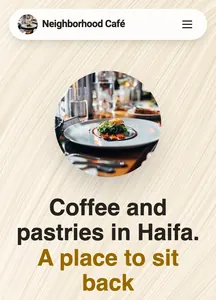
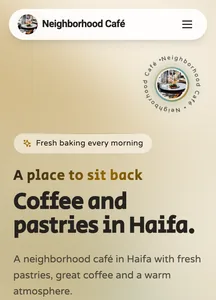
LT-605 (DASH): the editor offers the live-colours hero, the 3D button, the wall and the two product pages
- names (he/en): hero 'mesh' צבעים חיים, button 'splash' תלת ממד, products 'wall'
  קיר מדפים (its own name there: sectionLabel), product pages 'stand' על מדף לבן and
  'stage' במה מרחפת; mesh draws its own backdrop (no background chips)
- paid: hero mesh and product page stage (crown, held on the free plan, PaidNote),
  the product page panel now holds paid designs as the section panel does
- the 3D button's sample in the design tab; pictures for the five new looks (he/en,
  loops for mesh and stage); festive's style card redrawn with its new hero
- design-pictures: product pages can move, a design can act during its loop (the
  stage takes a colour), a slow field is filmed as a time-lapse

diff --git a/src/utils/editorOptions.ts b/src/utils/editorOptions.ts
@@ -15,6 +15,16 @@ export const optionLabel = (names: Named, value: string, lang: string): string =
   return lang === 'he' ? entry.he : entry.en;
 };
 
+/**
+ * LT-605: a look whose value another section already names differently ('wall'
+ * is the highlights' typographic wall and the products' wall of shelves).
+ */
+const OWN_NAMES: Record<string, Named> = {
+  products: { wall: { he: 'קיר מדפים', en: 'Wall of shelves' } },
+};
+export const sectionLabel = (section: string, value: string, lang: string): string =>
+  optionLabel(OWN_NAMES[section]?.[value] ? OWN_NAMES[section] : LAYOUTS, value, lang);
+
 export const PRESETS: Named = {
   luxe: { he: 'יוקרתי', en: 'Luxe' },
   editorial: { he: 'מגזיני', en: 'Editorial' },
@@ -53,9 +63,12 @@ export const PRODUCT_PAGE_LAYOUTS: Named = {
   hero: { he: 'תמונה גדולה מעל', en: 'Large picture above' },
   gallery: { he: 'גלריה ופרטים צמודים', en: 'Gallery, details in view' },
   detail: { he: 'דף חנות', en: 'Shop page' },
+  // LT-605
+  stand: { he: 'על מדף לבן', en: 'On a white ledge' },
+  stage: { he: 'במה מרחפת', en: 'Floating stage' },
 };
 /** The products page's own layouts: the still ones (the moving ones suit a handful); LT-588 by category. */
-export const PRODUCTS_PAGE_LAYOUTS = ['well', 'swap', 'bento', 'list', 'rows', 'shelves', 'shop'];
+export const PRODUCTS_PAGE_LAYOUTS = ['well', 'swap', 'bento', 'list', 'rows', 'shelves', 'shop', 'wall'];
 /** The layouts that draw a card per product (the owner's card). */
 export const CARD_LAYOUTS = ['well', 'swap', 'shop'];
 
@@ -80,6 +93,8 @@ export const BUTTON_STYLES: Named = {
   gradient: { he: 'מעבר צבע', en: 'Gradient' },
   outline: { he: 'מסגרת', en: 'Outline' },
   ghost: { he: 'שקוף', en: 'Ghost' },
+  // LT-605: festive's raised button whose letters roll and whose lines splash out.
+  splash: { he: 'תלת ממד', en: '3D splash' },
 };
 
 export const RADII: Named = {
@@ -113,7 +128,7 @@ export const HERO_BACKGROUNDS = ['fog', 'clouds', 'clouds2', 'topology', 'trunk'
 /** LT-531: these two are `design.decor`, which the site draws in place of `bgType`. */
 export const DECOR_BACKGROUNDS: readonly string[] = ['sonar', 'metal'];
 /** LT-531: the heroes that draw their own backdrop; a background chip would do nothing there. */
-export const OWN_BACKDROP_HEROES: readonly string[] = ['parallax', 'expand', 'aero', 'collage', 'slant'];
+export const OWN_BACKDROP_HEROES: readonly string[] = ['parallax', 'expand', 'aero', 'collage', 'slant', 'mesh'];
 
 /**
  * LT-570 (Erel 2026-11-03/04): the paid designs, by the section they lay out
@@ -123,7 +138,8 @@ export const OWN_BACKDROP_HEROES: readonly string[] = ['parallax', 'expand', 'ae
  * LT-583: the products' orbit (it turns by itself) joins them.
  */
 export const PAID_LAYOUTS: Readonly<Record<string, readonly string[]>> = {
-  hero: ['parallax', 'expand'],
+  // LT-605: the hero over a live field of colours.
+  hero: ['parallax', 'expand', 'mesh'],
   gallery: ['clothesline', 'cascade', 'curve'],
   portfolio: ['clothesline', 'cascade', 'curve'],
   products: ['belt', 'hanger', 'coverflow', 'orbit'],
@@ -131,9 +147,11 @@ export const PAID_LAYOUTS: Readonly<Record<string, readonly string[]>> = {
   features: ['stack'],
   // LT-591: the contact section with floating bubbles.
   contact: ['bubbles'],
+  // LT-605: the product page whose product floats by itself.
+  productPage: ['stage'],
 };
 export const PAID_BACKGROUNDS: readonly string[] = ['sonar', 'metal'];
-export const FREE_DEFAULTS: Readonly<Record<string, string>> = { hero: 'fullbleed', gallery: 'masonry', portfolio: 'masonry', products: 'well', features: 'tiles', contact: 'split' };
+export const FREE_DEFAULTS: Readonly<Record<string, string>> = { hero: 'fullbleed', gallery: 'masonry', portfolio: 'masonry', products: 'well', features: 'tiles', contact: 'split', productPage: 'side' };
 export const isPaidDesign = (section: string, value: unknown): boolean =>
   typeof value === 'string' && (PAID_LAYOUTS[section] ?? []).includes(value);
 
@@ -242,6 +260,8 @@ export const LAYOUTS: Named = {
   index: { he: 'אינדקס', en: 'Index' },
   // booking band and statement
   slant: { he: 'אלכסון', en: 'Slanted' },
+  // LT-605: the hero over a live field of the site's colours.
+  mesh: { he: 'צבעים חיים', en: 'Living colours' },
   quiet: { he: 'שקט', en: 'Quiet' },
   ticket: { he: 'כרטיס', en: 'Ticket' },
   display: { he: 'ענק', en: 'Display' },
@@ -269,7 +289,7 @@ export interface SectionDef {
   outsideBlocks?: boolean;
 }
 
-const HERO_LAYOUTS = ['image-right', 'centered', 'split', 'text-first', 'poster-split', 'poster-statement', 'fullbleed', 'parallax', 'expand', 'aero', 'collage', 'slant'];
+const HERO_LAYOUTS = ['image-right', 'centered', 'split', 'text-first', 'poster-split', 'poster-statement', 'fullbleed', 'parallax', 'expand', 'aero', 'collage', 'slant', 'mesh'];
 const GALLERY_LAYOUTS = ['grid', 'masonry', 'filmstrip', 'polaroid', 'flash', 'bento', 'scroller', 'spotlight', 'carousel', 'clothesline', 'curve', 'cascade'];
 const QUOTE_LAYOUTS = ['cards', 'quote', 'bubbles', 'marquee', 'spotlight', 'editorial'];
 const FAQ_STYLES = ['cards', 'lines', 'numbered', 'pills', 'split'];
@@ -295,7 +315,7 @@ export const SECTIONS: Record<string, SectionDef> = {
   visit: { label: { he: 'פרטי ביקור', en: 'Visit' } },
   portfolio: { label: { he: 'גלריה', en: 'Gallery' }, variants: GALLERY_LAYOUTS, designToken: 'portfolioLayout', visibleKey: 'portfolio' },
   gallery: { label: { he: 'גלריה', en: 'Gallery' }, variants: GALLERY_LAYOUTS },
-  products: { label: { he: 'מוצרים', en: 'Products' }, variants: ['well', 'swap', 'bento', 'list', 'belt', 'hanger', 'coverflow', 'orbit', 'drops'], designToken: 'productsLayout' },
+  products: { label: { he: 'מוצרים', en: 'Products' }, variants: ['well', 'swap', 'bento', 'list', 'belt', 'hanger', 'coverflow', 'orbit', 'drops', 'wall'], designToken: 'productsLayout' },
   testimonials: { label: { he: 'המלצות', en: 'Reviews' }, variants: QUOTE_LAYOUTS, designToken: 'testimonialsLayout', visibleKey: 'testimonials' },
   quote: { label: { he: 'המלצות', en: 'Reviews' }, variants: QUOTE_LAYOUTS },
   faq: { label: { he: 'שאלות נפוצות', en: 'FAQ' }, variants: FAQ_STYLES, designToken: 'faqStyle', visibleKey: 'faq' },

diff --git a/src/tests/components/lt605Choices.test.tsx b/src/tests/components/lt605Choices.test.tsx
@@ -1,0 +1,61 @@
+import { describe, it, expect, vi } from 'vitest';
+import { render, screen, fireEvent, waitFor, within } from '@testing-library/react';
+import { MemoryRouter } from 'react-router-dom';
+import { ProductPagePanel, ProductsPagePanel } from '../../components/siteEditor/ProductDesign';
+import { ButtonSample } from '../../components/siteEditor/ThemeSamples';
+import { BUTTON_STYLES, OWN_BACKDROP_HEROES, PRODUCTS_PAGE_LAYOUTS, sectionDef, sectionLabel } from '../../utils/editorOptions';
+
+const { t } = vi.hoisted(() => ({ t: (k: string, o?: Record<string, unknown>) => (o ? `${k}:${JSON.stringify(o)}` : k) }));
+vi.mock('react-i18next', () => ({
+  useTranslation: () => ({ t, i18n: { language: 'en', dir: () => 'ltr' } }),
+  initReactI18next: { type: '3rdParty', init: () => {} },
+}));
+vi.mock('../../contexts/LeaveGuardContext', () => ({ useLeaveGuard: () => ({ guardLinkClick: vi.fn() }) }));
+// The free plan: the paid designs are held.
+vi.mock('../../services/entitlementsApi', () => ({ fetchMyEntitlements: vi.fn(async () => ({ limits: { motionDesigns: false } })) }));
+
+/**
+ * LT-605 (Erel's four components): the editor offers the live-colours hero,
+ * the 3D button, the wall of shelves and the two product pages; the hero and
+ * the floating stage are paid designs.
+ */
+describe("the editor's LT-605 looks", () => {
+  it('names the new looks, the wall in the products section as a wall of shelves', () => {
+    expect(sectionDef('hero')?.variants).toContain('mesh');
+    expect(OWN_BACKDROP_HEROES).toContain('mesh');
+    expect(sectionDef('products')?.variants).toContain('wall');
+    expect(PRODUCTS_PAGE_LAYOUTS).toContain('wall');
+    expect(sectionLabel('products', 'wall', 'he')).toBe('קיר מדפים');
+    expect(sectionLabel('features', 'wall', 'en')).toBe('Wall');
+    expect(sectionLabel('hero', 'mesh', 'he')).toBe('צבעים חיים');
+    expect(BUTTON_STYLES.splash).toEqual({ he: 'תלת ממד', en: '3D splash' });
+  });
+
+  it('draws the 3D button raised on its own side', () => {
+    render(<ButtonSample style="splash" color="#e0475b" />);
+    const sample = document.querySelector('[data-sample="button-splash"]') as HTMLElement;
+    expect(sample.style.boxShadow).toContain('0 3px 0 rgba(0,0,0,0.35), 0 3px 0 #e0475b');
+  });
+
+  it('crowns the floating stage on the free plan, and a tap on it leaves the page as it is', async () => {
+    const onUpdate = vi.fn();
+    render(<MemoryRouter><ProductPagePanel config={{ design: { productPageLayout: 'stage' }, products: { items: [] } }} onUpdate={onUpdate} slug={null} onPreview={vi.fn()} /></MemoryRouter>);
+    const choices = screen.getByTestId('product-page-choices');
+    expect(within(choices).getByRole('radio', { name: 'On a white ledge' })).toBeInTheDocument();
+    const stage = within(choices).getByRole('radio', { name: 'Floating stage' });
+    // Held: the lit choice is the one the site draws, the plain one.
+    await waitFor(() => expect(within(choices).getByRole('radio', { name: 'Pictures beside' })).toHaveAttribute('aria-checked', 'true'));
+    expect(within(stage).getByTestId('paid-mark')).toBeInTheDocument();
+    fireEvent.click(stage);
+    expect(onUpdate).not.toHaveBeenCalled();
+    expect(screen.getByTestId('paid-note')).toBeInTheDocument();
+    fireEvent.click(within(choices).getByRole('radio', { name: 'On a white ledge' }));
+    expect(onUpdate).toHaveBeenCalledTimes(1);
+  });
+
+  it('offers the products page its wall, by the products section\'s own name', () => {
+    render(<MemoryRouter><ProductsPagePanel config={{ design: { productsPageLayout: 'wall' } }} onUpdate={vi.fn()} /></MemoryRouter>);
+    const wall = within(screen.getByTestId('products-page-choices')).getByRole('radio', { name: 'Wall of shelves' });
+    expect(wall).toHaveAttribute('aria-checked', 'true');
+  });
+});

diff --git a/src/components/siteEditor/ProductDesign.tsx b/src/components/siteEditor/ProductDesign.tsx
@@ -1,10 +1,12 @@
-import React, { useId } from 'react';
+import React, { useId, useState } from 'react';
 import { useTranslation } from 'react-i18next';
 import { Link } from 'react-router-dom';
 import { ShoppingBag } from 'lucide-react';
 import { useLeaveGuard } from '../../contexts/LeaveGuardContext';
 import { getAt, setAt } from '../../utils/editorPaths';
-import { CARD_LAYOUTS, LAYOUTS, PRODUCTS_PAGE_LAYOUTS, PRODUCT_CARDS, PRODUCT_PAGE_LAYOUTS, blockLookOf, optionLabel } from '../../utils/editorOptions';
+import { CARD_LAYOUTS, FREE_DEFAULTS, PRODUCTS_PAGE_LAYOUTS, PRODUCT_CARDS, PRODUCT_PAGE_LAYOUTS, blockLookOf, isPaidDesign, optionLabel, sectionLabel } from '../../utils/editorOptions';
+import { canOfferPurchases } from '../../lib/platform';
+import { PaidNote, usePaidDesignsHeld } from './MotionPlan';
 import { vocabLang } from './labels';
 import DesignChoices from './DesignChoices';
 
@@ -112,7 +114,7 @@ export function ProductsPagePanel<T>({ config, onUpdate }: PanelProps<T>) {
           group="productsPage"
           values={PRODUCTS_PAGE_LAYOUTS}
           current={layout}
-          labelOf={(value) => optionLabel(LAYOUTS, value, lang)}
+          labelOf={(value) => sectionLabel('products', value, lang)}
           onPick={(value) => onUpdate((prev) => setAt(prev, 'design.productsPageLayout', value))}
           language={i18n.language || 'he'}
           testId="products-page-choices"
@@ -132,6 +134,10 @@ export function ProductPagePanel<T>({ config, onUpdate, slug, onPreview }: Panel
   const lang = vocabLang(i18n.language);
   const pickerId = useId();
   const items = previewProductsOf(config);
+  const held = usePaidDesignsHeld();
+  const sells = canOfferPurchases();
+  const [asked, setAsked] = useState<string | null>(null);
+  const pageLayout = productPageLayoutOf(config);
   return (
     <div className="flex flex-col gap-5" data-testid="product-page-panel">
       {items.length > 1 && (
@@ -149,16 +155,23 @@ export function ProductPagePanel<T>({ config, onUpdate, slug, onPreview }: Panel
       )}
       <div>
         <p className={label}>{t('siteEditor.products.layout')}</p>
+        {/* LT-605: the floating stage is a paid design (MotionPlan, as in SectionPanel). */}
         <DesignChoices
           name={t('siteEditor.products.layout')}
           group="productPage"
-          values={Object.keys(PRODUCT_PAGE_LAYOUTS)}
-          current={productPageLayoutOf(config)}
+          values={Object.keys(PRODUCT_PAGE_LAYOUTS).filter((v) => !isPaidDesign('productPage', v) || !held || sells)}
+          current={held && isPaidDesign('productPage', pageLayout) ? FREE_DEFAULTS.productPage : pageLayout}
           labelOf={(value) => optionLabel(PRODUCT_PAGE_LAYOUTS, value, lang)}
-          onPick={(value) => onUpdate((prev) => setAt(prev, 'design.productPageLayout', value))}
+          marked={(value) => isPaidDesign('productPage', value) && (!held || sells)}
+          onPick={(value) => {
+            if (held && isPaidDesign('productPage', value)) { setAsked(value); return; }
+            setAsked(null);
+            onUpdate((prev) => setAt(prev, 'design.productPageLayout', value));
+          }}
           language={i18n.language || 'he'}
           testId="product-page-choices"
         />
+        {asked && <div className="mt-2"><PaidNote /></div>}
       </div>
       <p className="text-xs text-gray-500 dark:text-slate-400">{t('siteEditor.products.contentHint')}</p>
       <ManageProducts />

diff --git a/src/components/siteEditor/SectionPanel.tsx b/src/components/siteEditor/SectionPanel.tsx
@@ -6,7 +6,7 @@ import { useLeaveGuard } from '../../contexts/LeaveGuardContext';
 import ToggleSwitch from '../ui/ToggleSwitch';
 import { blockById, getAt, moveBlock, patchBlock, removeBlock, setAt } from '../../utils/editorPaths';
 import { aiEditable, fieldInfo } from '../../utils/editorFields';
-import { CARD_LAYOUTS, DECOR_BACKGROUNDS, DEFAULT_VARIANT, FREE_DEFAULTS, HERO_BACKGROUNDS, HERO_BACKGROUND_NAMES, LAYOUTS, OWN_BACKDROP_HEROES, PAID_BACKGROUNDS, blockLookOf, heroBackgroundOf, isPaidDesign, optionLabel, sectionDef, variantToStore } from '../../utils/editorOptions';
+import { CARD_LAYOUTS, DECOR_BACKGROUNDS, DEFAULT_VARIANT, FREE_DEFAULTS, HERO_BACKGROUNDS, HERO_BACKGROUND_NAMES, OWN_BACKDROP_HEROES, PAID_BACKGROUNDS, blockLookOf, heroBackgroundOf, isPaidDesign, optionLabel, sectionDef, sectionLabel, variantToStore } from '../../utils/editorOptions';
 import { canOfferPurchases } from '../../lib/platform';
 import { PaidNote, usePaidDesignsHeld } from './MotionPlan';
 import { ProductCardPicker } from './ProductDesign';
@@ -167,7 +167,7 @@ function SectionPanel<T>({ config, section, sectionType, fields, onUpdate, onSel
             group={pictureGroup(type)}
             values={def.variants.filter((v) => offered(isPaidDesign(type, v)))}
             current={current}
-            labelOf={(v) => optionLabel(LAYOUTS, v, lang)}
+            labelOf={(v) => sectionLabel(type, v, lang)}
             marked={(v) => marked(isPaidDesign(type, v))}
             language={i18n.language || 'he'}
             onPick={(v) => {

diff --git a/src/tests/components/motionPlan.test.tsx b/src/tests/components/motionPlan.test.tsx
@@ -41,11 +41,19 @@ const settled = () => act(() => new Promise<void>((r) => setTimeout(r, 0)));
 
 describe('the paid designs (LT-570)', () => {
   it('give way to one default per section, which is never paid itself', () => {
-    expect(FREE_DEFAULTS).toEqual({ hero: 'fullbleed', gallery: 'masonry', portfolio: 'masonry', products: 'well', features: 'tiles', contact: 'split' });
+    expect(FREE_DEFAULTS).toEqual({ hero: 'fullbleed', gallery: 'masonry', portfolio: 'masonry', products: 'well', features: 'tiles', contact: 'split', productPage: 'side' });
     for (const [section, paid] of Object.entries(PAID_LAYOUTS)) {
       expect(paid.length).toBeGreaterThan(0);
       expect(isPaidDesign(section, FREE_DEFAULTS[section])).toBe(false);
     }
+  });
+
+  it("crowns LT-605's live-colours hero and the floating stage, not the wall, its ledge or the 3D button", () => {
+    expect(isPaidDesign('hero', 'mesh')).toBe(true);
+    expect(isPaidDesign('productPage', 'stage')).toBe(true);
+    expect(isPaidDesign('productPage', 'stand')).toBe(false);
+    expect(isPaidDesign('products', 'wall')).toBe(false);
+    expect(isPaidDesign('productsPage', 'wall')).toBe(false);
   });
 
   it('crowns the contact section with bubbles, not the reviews of the same name (LT-591)', () => {

diff --git a/src/components/siteEditor/ThemeSamples.tsx b/src/components/siteEditor/ThemeSamples.tsx
@@ -81,6 +81,8 @@ export const ButtonSample: React.FC<{ style: string; color: string }> = ({ style
     style === 'solid' ? { background: color, color: '#fff' }
     : style === 'gradient' ? { backgroundImage: `linear-gradient(135deg, ${color}, ${color}99)`, color: '#fff' }
     : style === 'outline' ? { border: `1.5px solid ${color}`, color }
+    // LT-605: raised on its own side, as the site's 3D button.
+    : style === 'splash' ? { background: color, color: '#fff', boxShadow: `inset 0 1px 0 rgba(255,255,255,0.35), 0 3px 0 rgba(0,0,0,0.35), 0 3px 0 ${color}`, transform: 'translateY(-1px)' }
     : { background: `${color}1f`, color };
   return <span aria-hidden="true" data-sample={`button-${style}`} className="inline-flex h-5 w-12 shrink-0 items-center justify-center rounded-full text-[9px] font-semibold" style={css}>Aa</span>;
 };

diff --git a/tools/design-pictures/make.py b/tools/design-pictures/make.py
@@ -118,7 +118,8 @@ def main():
             if anim:
                 shots = anim['shots']
                 frames = [frame_of(Image.open(os.path.join(lang_dir, key, s['file'])), meta) for s in shots]
-                if anim.get('mode') == 'scroll':
+                # Scroll loops and time-lapses (a slow field, LT-605) play at a fixed pace.
+                if anim.get('fixedMs'):
                     durations = [anim.get('fixedMs', 85)] * len(frames)
                 else:
                     durations = [max(40, shots[i + 1]['t'] - shots[i]['t']) for i in range(len(shots) - 1)] + [100]
